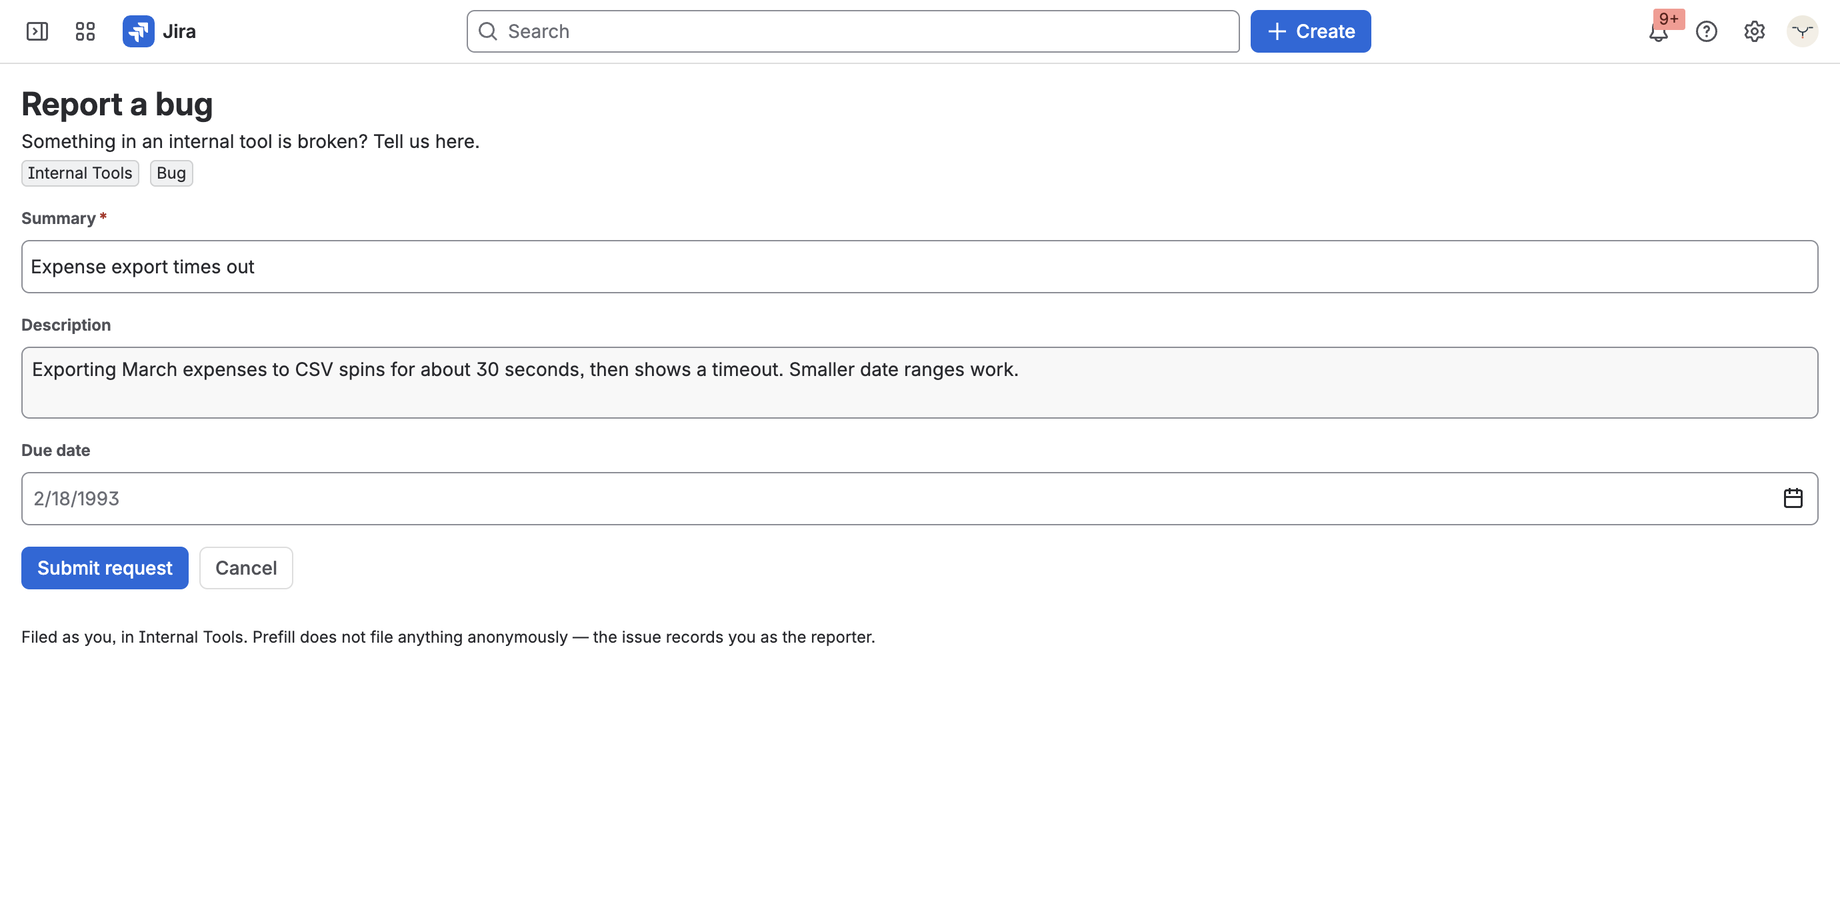
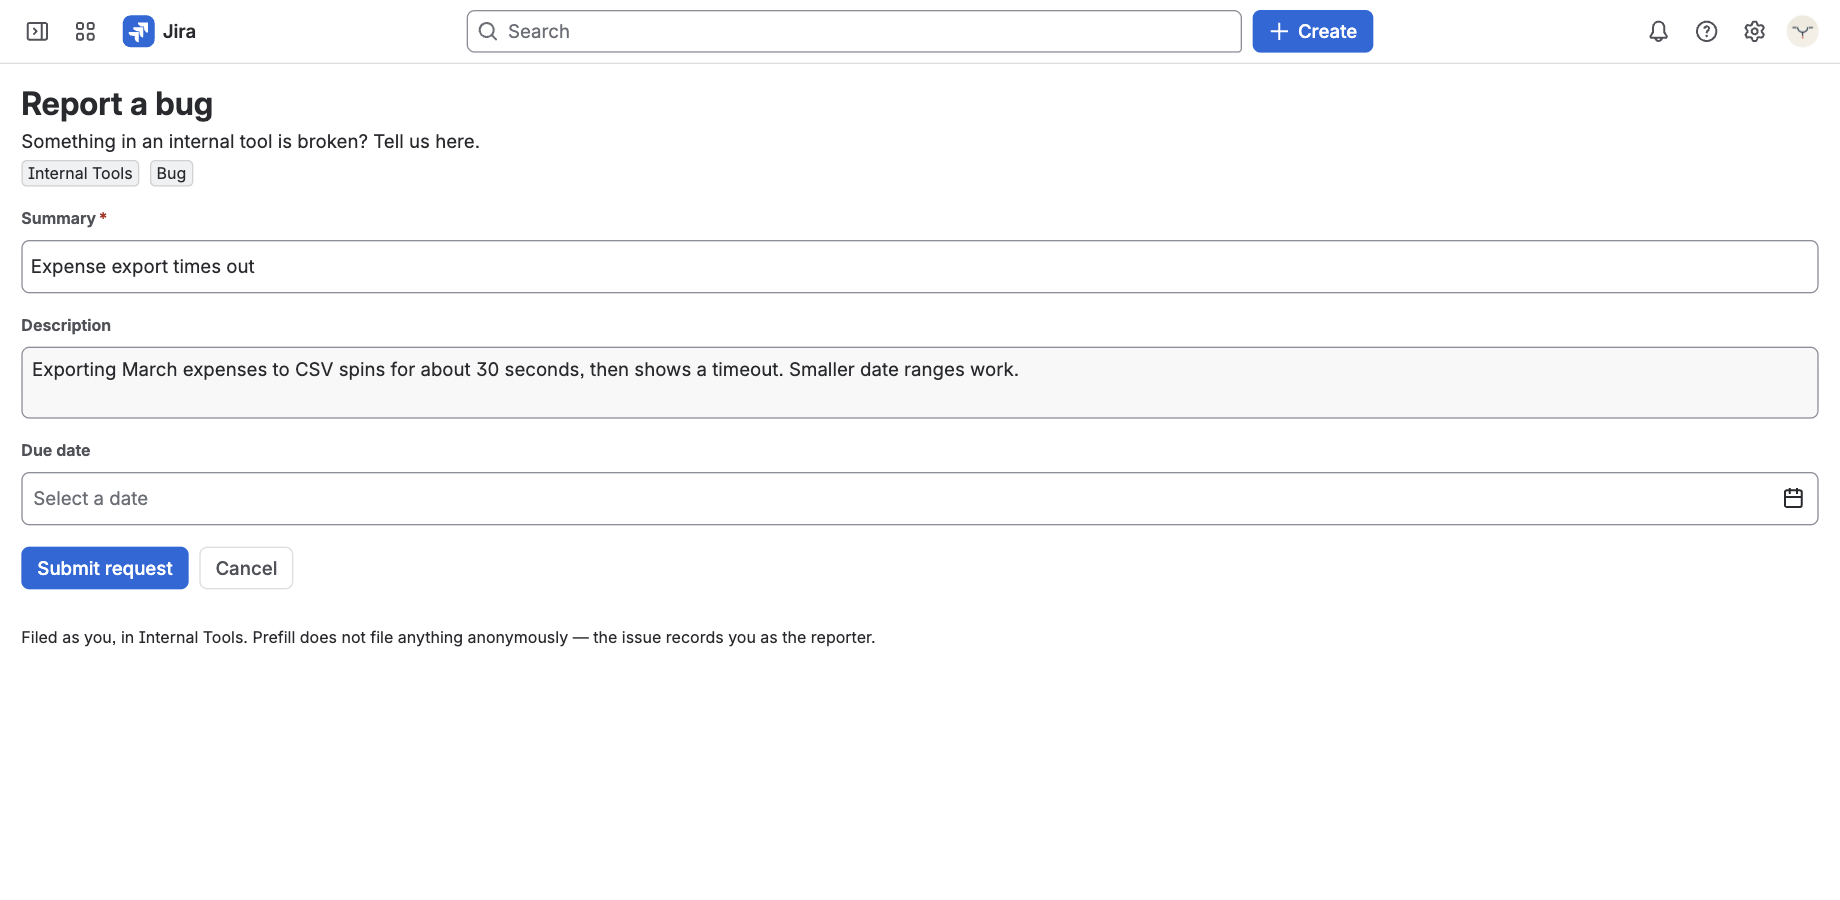
Prefill: compare against Jira's own forms, and embed the re-recorded demo (Z7xGRXMJ5uI)
- The comparison had a column of claims about "issue template apps" nobody
  had checked, and "thirty fields" for Jira's create screen. It now sets
  Prefill beside Jira's create screen and Jira's own forms, five rows, each
  measured on a site on 26 September 2026: what the submitter sees, what
  happens to routing fields, whether the link can fill in answers, who can
  submit, and attachments — which Prefill does not take, and says so.
- "Three questions instead of thirty" is gone from the lede and the meta
  descriptions: the form asks only what the submitter can answer.
- The demo is re-recorded on 2.3.0: saving lands on the form's page with its
  link, and the date field no longer shows a sample date. The player's
  poster (also og:image) is re-shot the same way.

diff --git a/prefill/index.html b/prefill/index.html
@@ -9,7 +9,7 @@
     <title>Prefill for Jira — prefilled intake links and short request forms</title>
     <meta
       name="description"
-      content="Give colleagues one link instead of a Jira tutorial. It opens a form with three questions, not thirty: project, issue type and routing fields are already set. Submitters are your own signed-in Jira users, and nothing leaves Atlassian."
+      content="Give colleagues one link instead of a Jira tutorial. It opens a short form that asks only what they know; project, issue type and routing fields are already set, out of sight. Submitters are your own signed-in Jira users, and nothing leaves Atlassian."
     />
     <link rel="canonical" href="https://keelapps.app/prefill/" />
     <link rel="icon" href="/assets/favicon.png" sizes="32x32" />
@@ -31,7 +31,7 @@
         "@type": "SoftwareApplication",
         "name": "Prefill — Request Forms & Create-Issue Links for Jira",
         "alternateName": "Prefill for Jira",
-        "description": "Give colleagues one link instead of a Jira tutorial. It opens a form with three questions, not thirty: project, issue type and routing fields are already set. Submitters are your own signed-in Jira users, and nothing leaves Atlassian.",
+        "description": "Give colleagues one link instead of a Jira tutorial. It opens a short form that asks only what they know; project, issue type and routing fields are already set, out of sight. Submitters are your own signed-in Jira users, and nothing leaves Atlassian.",
         "url": "https://keelapps.app/prefill/",
         "image": "https://keelapps.app/assets/screenshots/prefill-request-form.png",
         "applicationCategory": "BusinessApplication",
@@ -56,11 +56,11 @@
         "video": {
           "@type": "VideoObject",
           "name": "Prefill for Jira — prefilled intake links and short request forms",
-          "description": "Give colleagues one link instead of a Jira tutorial. It opens a form with three questions, not thirty: project, issue type and routing fields are already set. Submitters are your own signed-in Jira users, and nothing leaves Atlassian.",
+          "description": "Give colleagues one link instead of a Jira tutorial. It opens a short form that asks only what they know; project, issue type and routing fields are already set, out of sight. Submitters are your own signed-in Jira users, and nothing leaves Atlassian.",
           "thumbnailUrl": "https://keelapps.app/assets/screenshots/prefill-request-form.png",
-          "uploadDate": "2026-09-19T03:48:00-07:00",
+          "uploadDate": "2026-09-27",
           "duration": "PT1M11S",
-          "embedUrl": "https://www.youtube-nocookie.com/embed/1D8ck2UmYdU"
+          "embedUrl": "https://www.youtube-nocookie.com/embed/Z7xGRXMJ5uI"
         }
       }
     </script>
@@ -117,9 +117,9 @@
         <div class="intro__split">
           <p class="lede">
             Paste it in Slack, an email signature, a runbook or a monitoring alert. It opens a
-            short form with three questions instead of thirty: the project, the issue type and
-            the fields that decide routing are already set, so the submitter answers only what
-            they alone can answer. Submitters are your own <strong>signed-in Jira users</strong>,
+            short form that asks only what the submitter can answer: the project, the issue type
+            and the fields that decide routing are already set, out of sight. Submitters are your
+            own <strong>signed-in Jira users</strong>,
             the issue is created as the real person, and nothing leaves Atlassian.
           </p>
           <div class="intro__act">
@@ -143,8 +143,8 @@
       <figure class="showcase" id="demo">
         <iframe
           class="showcase__player"
-          src="https://www.youtube-nocookie.com/embed/1D8ck2UmYdU"
-          srcdoc="<style>*{margin:0;padding:0}html,body{height:100%;overflow:hidden;background:#0F2536}a{display:block;height:100%;position:relative}img{display:block;width:100%;height:100%;object-fit:cover}span{position:absolute;inset:0;margin:auto;width:5rem;height:5rem;border-radius:50%;background:rgba(15,37,54,.86);color:#F4EFE6;display:grid;place-items:center;font:2rem/1 sans-serif}a:hover span{background:rgba(15,37,54,1)}</style><a href='https://www.youtube-nocookie.com/embed/1D8ck2UmYdU?autoplay=1' aria-label='Play the Prefill product demo'><img src='/assets/screenshots/prefill-request-form.png' alt=''><span>&#9654;</span></a>"
+          src="https://www.youtube-nocookie.com/embed/Z7xGRXMJ5uI"
+          srcdoc="<style>*{margin:0;padding:0}html,body{height:100%;overflow:hidden;background:#0F2536}a{display:block;height:100%;position:relative}img{display:block;width:100%;height:100%;object-fit:cover}span{position:absolute;inset:0;margin:auto;width:5rem;height:5rem;border-radius:50%;background:rgba(15,37,54,.86);color:#F4EFE6;display:grid;place-items:center;font:2rem/1 sans-serif}a:hover span{background:rgba(15,37,54,1)}</style><a href='https://www.youtube-nocookie.com/embed/Z7xGRXMJ5uI?autoplay=1' aria-label='Play the Prefill product demo'><img src='/assets/screenshots/prefill-request-form.png' alt=''><span>&#9654;</span></a>"
           width="1840"
           height="900"
           title="Prefill for Jira — one link instead of a Jira tutorial (product demo)"
@@ -156,7 +156,7 @@
         <figcaption>
           What the person on the other end of the link opens: three questions, with the project,
           the issue type and the priority already decided for them.
-          <a href="https://www.youtube.com/watch?v=1D8ck2UmYdU">Watch on YouTube</a>.
+          <a href="https://www.youtube.com/watch?v=Z7xGRXMJ5uI">Watch on YouTube</a>.
         </figcaption>
       </figure>
 
@@ -284,46 +284,40 @@
               <tr>
                 <th>Question</th>
                 <th>Jira's create screen</th>
-                <th>Issue template apps</th>
+                <th>Jira's own forms</th>
                 <th>Prefill</th>
               </tr>
             </thead>
             <tbody>
               <tr>
                 <td>What does the submitter see?</td>
-                <td class="absent">Thirty fields</td>
-                <td class="absent">Thirty fields, pre-typed</td>
-                <td><span class="answer">Three questions</span></td>
+                <td class="absent">Every field on the project's create screen</td>
+                <td>The questions you put on the form</td>
+                <td><span class="answer">Only the fields you chose to ask</span></td>
               </tr>
               <tr>
-                <td>Do they need to know the project and issue type?</td>
-                <td class="absent">Yes</td>
-                <td>Less so</td>
-                <td><span class="answer">No — the link decides</span></td>
+                <td>Component, labels, priority, assignee</td>
+                <td class="absent">The submitter picks them</td>
+                <td class="absent">Asked as questions on the form</td>
+                <td><span class="answer">Fixed by you, never shown</span></td>
               </tr>
               <tr>
-                <td>Can it be pasted into Slack or an alert?</td>
-                <td class="absent">A create screen, not an intake page</td>
-                <td class="absent">Usually not</td>
-                <td><span class="answer">That is the product</span></td>
+                <td>Can the link fill in answers?</td>
+                <td>Some fields, through a create URL anyone can edit</td>
+                <td class="absent">No — parameters on the link are ignored</td>
+                <td><span class="answer">Yes, for the fields you allow — never a hidden one</span></td>
               </tr>
               <tr>
-                <td>Is a broken form caught before people hit it?</td>
-                <td>—</td>
-                <td class="absent">Rarely</td>
-                <td><span class="answer">At save, and at every submission</span></td>
+                <td>Who can submit?</td>
+                <td>Signed-in users</td>
+                <td>Your users, or anyone with the link</td>
+                <td>Signed-in users who can create issues in the project</td>
               </tr>
               <tr>
-                <td>Who is the reporter?</td>
-                <td>The submitter</td>
-                <td>The submitter</td>
-                <td><span class="answer">The submitter — created as them</span></td>
-              </tr>
-              <tr>
-                <td>Does anything leave Atlassian?</td>
-                <td>—</td>
-                <td class="absent">Depends on the vendor</td>
-                <td><span class="answer">Never</span></td>
+                <td>Attachments</td>
+                <td>Yes</td>
+                <td>Yes</td>
+                <td class="absent">No</td>
               </tr>
             </tbody>
           </table>
